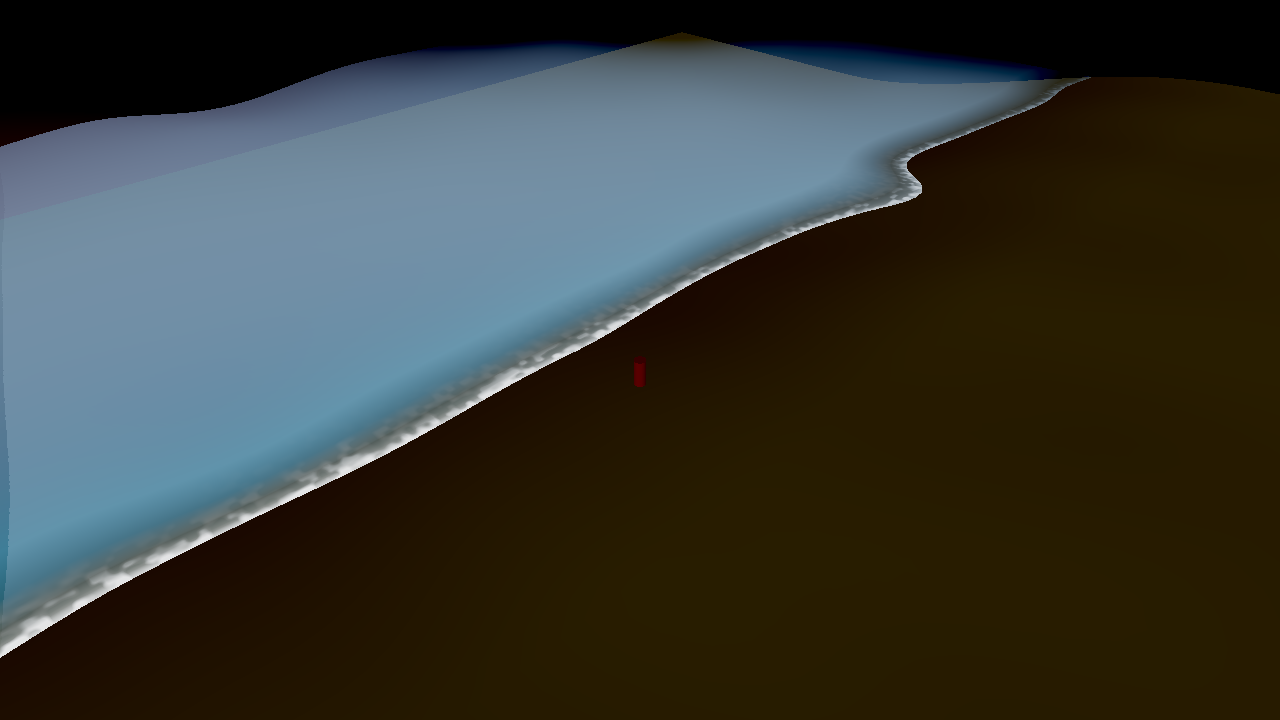
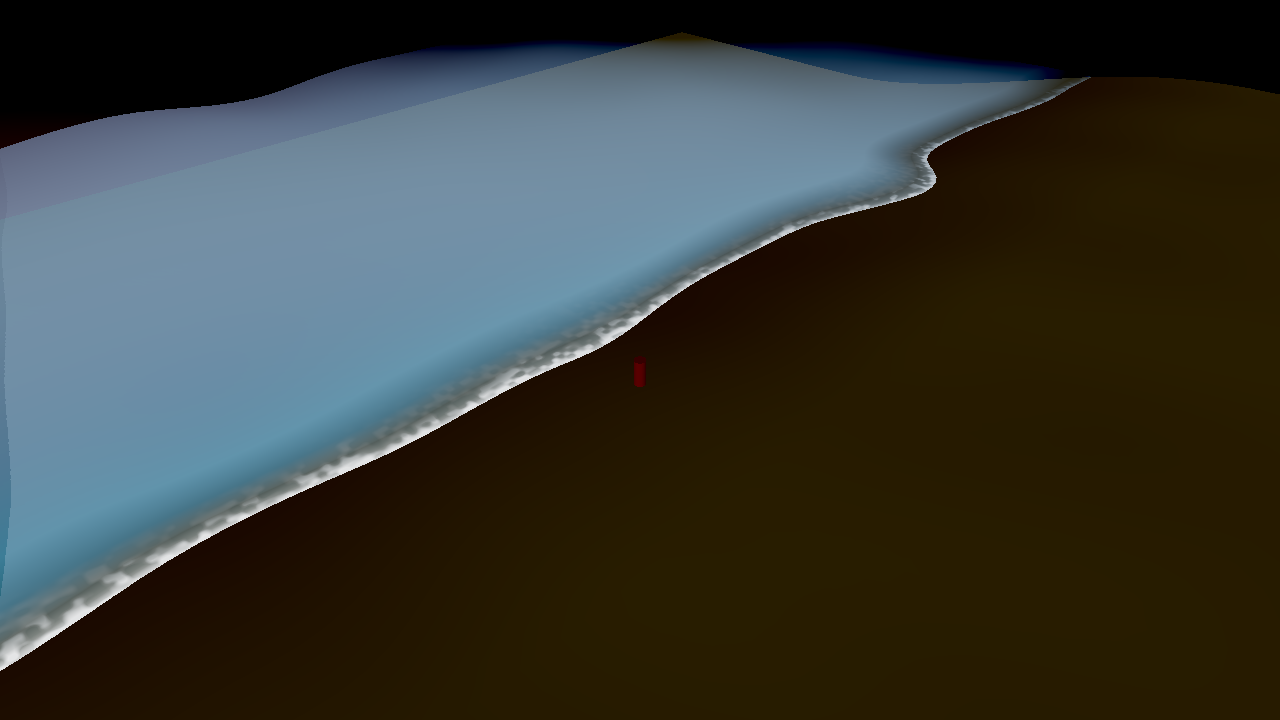
fix(p9): lift twilight ambient for dawn and dusk

diff --git a/Assets/Game/Time/TimeOfDaySystem.cs b/Assets/Game/Time/TimeOfDaySystem.cs
@@ -166,10 +166,16 @@ namespace Fengling.Time
                 RenderSettings.ambientLight = Color.Lerp(nightAmb, dayAmb, ambT);
                 RenderSettings.ambientIntensity = 1f;
 
+                // 日出/日落前后用 twilight 抬环境光，避免低太阳时地面死黑。
+                float twilight = 1f - Mathf.SmoothStep(0f, 1f,
+                    Mathf.InverseLerp(0.02f, 0.30f, Mathf.Abs(sunDir.y)));
+                float ambientT = Mathf.Max(dayFactor, twilight * 0.8f);
+
                 // FenglingLit 的 SH 兜底：白天保留 SH，夜晚/黎明用全局色保底。
-                Shader.SetGlobalFloat("_FenglingAmbientScale", Mathf.Lerp(0.08f, 1f, dayFactor));
+                Shader.SetGlobalFloat("_FenglingAmbientScale", Mathf.Lerp(0.08f, 1f, ambientT));
                 Shader.SetGlobalColor("_FenglingAmbientColor",
-                    Color.Lerp(new Color(0.025f, 0.03f, 0.05f), new Color(0.14f, 0.15f, 0.14f), dayFactor));
+                    Color.Lerp(new Color(0.025f, 0.03f, 0.05f),
+                        new Color(0.18f, 0.19f, 0.18f), ambientT));
             }
         }
 

diff --git a/Docs/Phase2昼夜执行记录_2026-11-20.md b/Docs/Phase2昼夜执行记录_2026-11-20.md
@@ -92,3 +92,15 @@
 2. 用天空视角验证月亮/星星；
 3. 进入 Phase 3：太阳 4 级级联 + 月亮 shadow map；
 4. Phase 4 再让水面高光/反射跟随太阳/月亮。
+
+---
+
+## 6. 环境光二次调整
+
+- 增加 twilight 因子（日出/日落前后抬环境光）；
+- `_FenglingAmbientScale` / `_FenglingAmbientColor` 用 twilight + dayFactor 混合；
+- 结果：6:00/18:00 地面从死黑变为可读的暗橄榄色，但仍偏暗；
+- 夜晚仍保持低环境光，避免变成白天。
+
+后续需要单独调一套 dawn/dusk 曝光/色温曲线，不能只靠 ambient 提亮。
+
